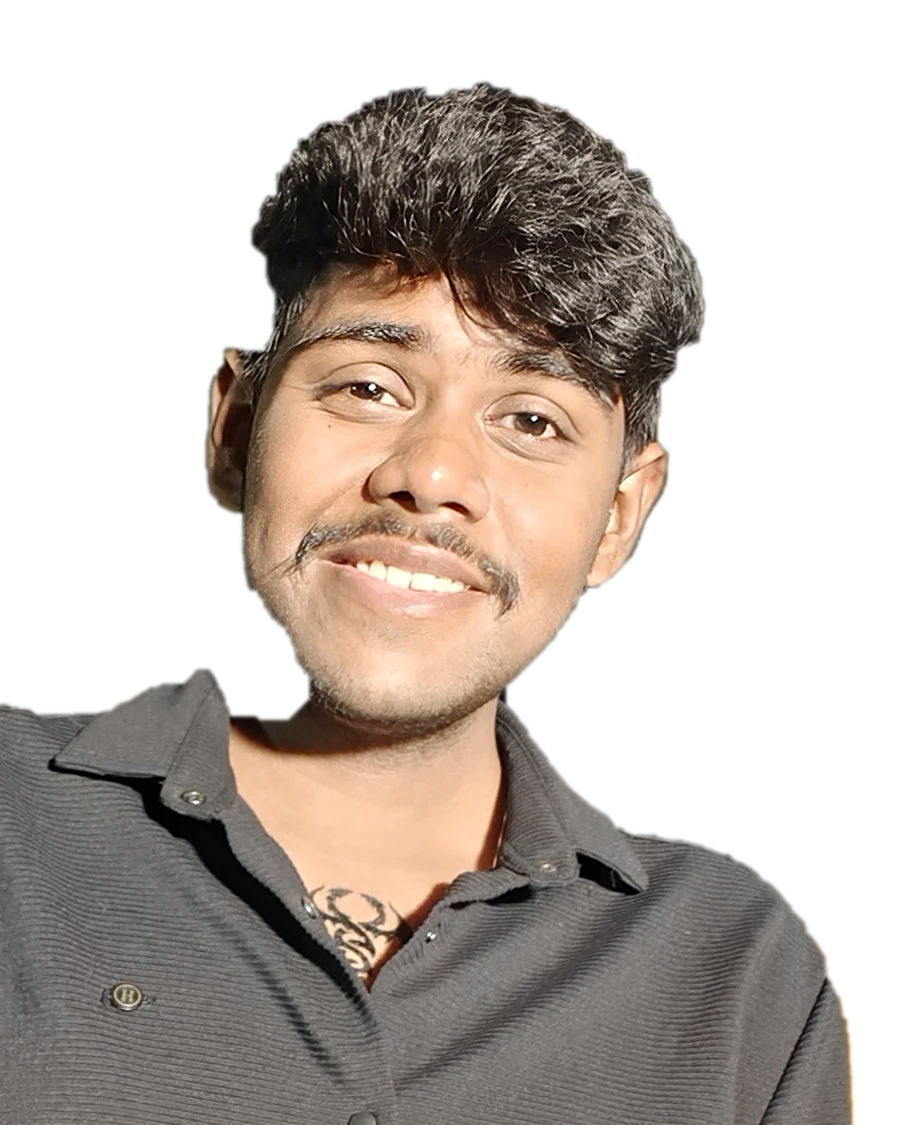
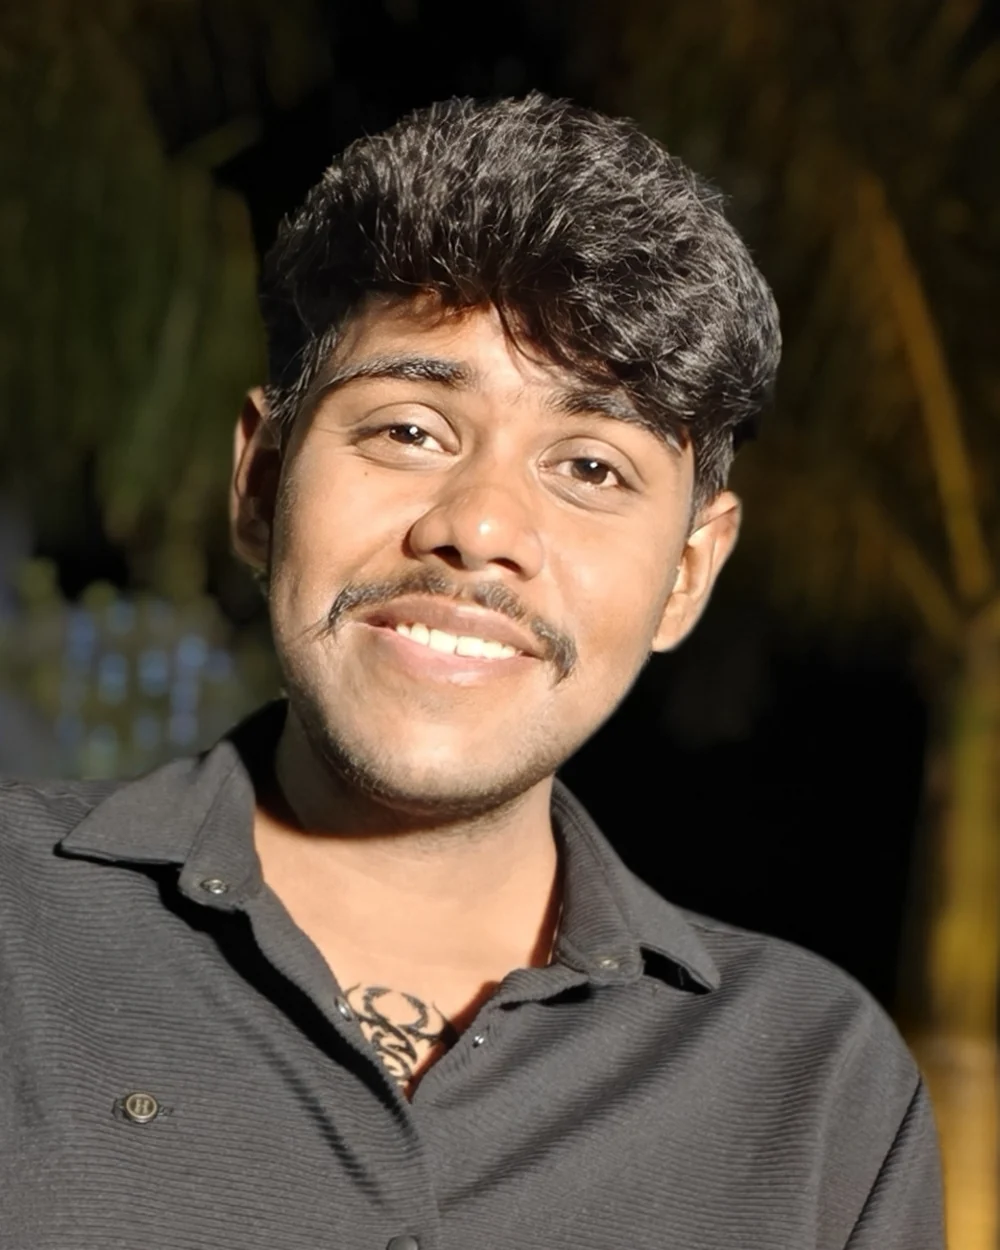
Introduction: the portrait is a plain photograph
Removes the cobalt disc, dot screen, edge fade and baseline. The photo is the natural
head-and-shoulders crop at 4:5 and stays beside the text on wide screens.

Claude-Session: https://claude.ai/code/session_01BJtJpFH6hEUmyFVEyCa3Sv

diff --git a/css/home.css b/css/home.css
@@ -57,21 +57,9 @@
   display: grid; grid-template-columns: repeat(12, minmax(0, 1fr)); gap: 3rem 2rem; align-items: start;
   margin-top: clamp(3rem, 9vh, 6.5rem);
 }
-/* The portrait is a still: a cut-out on a cobalt disc with a dot screen, standing on a baseline. The head rises past the disc.
-   It sits beside the text and stays in view while the text beside it is read. */
-.portrait { grid-column: 1 / span 5; margin: 0; position: sticky; top: calc(var(--nav-h) + 1.5rem); aspect-ratio: 4 / 5; border-bottom: 2px solid var(--ink); }
-.portrait::before {
-  content: ""; position: absolute; left: 7%; width: 86%; aspect-ratio: 1; top: 17%; border-radius: 50%;
-  background:
-    radial-gradient(circle, rgba(233, 235, 240, 0.3) 1.25px, transparent 1.7px) 0 0 / 11px 11px,
-    linear-gradient(155deg, rgba(255, 255, 255, 0.12), rgba(16, 19, 38, 0.32)),
-    var(--cobalt);
-}
-.portrait img {
-  position: absolute; inset: 0; width: 100%; height: 100%; object-fit: contain; object-position: bottom;
-  /* the photo itself is cut off at the left shoulder, so let that edge fade */
-  -webkit-mask-image: linear-gradient(to right, transparent 0, #000 7%); mask-image: linear-gradient(to right, transparent 0, #000 7%);
-}
+/* The portrait is a plain photograph, 4:5, and stays in view beside the text on wide screens. */
+.portrait { grid-column: 1 / span 5; margin: 0; position: sticky; top: calc(var(--nav-h) + 1.5rem); aspect-ratio: 4 / 5; background: var(--ink); }
+.portrait img { display: block; width: 100%; height: 100%; object-fit: cover; }
 .intro__body { grid-column: 7 / span 6; display: grid; gap: 1.15rem; }
 .intro__body p { max-width: 34rem; }
 .intro__actions { display: flex; align-items: center; gap: 1.8rem; padding-top: 0.3rem; }

diff --git a/index.html b/index.html
@@ -57,7 +57,7 @@
       </div>
       <div class="wrap intro__grid">
         <figure class="portrait" id="portrait">
-          <img src="assets/portrait.webp" width="900" height="1125" alt="Portrait of Yashsingh Chauhan, smiling, in a dark collared shirt" decoding="async" fetchpriority="low">
+          <img src="assets/portrait.webp" width="1000" height="1250" alt="Portrait of Yashsingh Chauhan, smiling, in a dark collared shirt" decoding="async">
         </figure>
         <div class="intro__body">
           <p class="intro__lead rv"><span>I build AI systems, then measure whether they work.</span></p>

diff --git a/README.md b/README.md
@@ -38,7 +38,7 @@ Plain HTML, CSS and JavaScript. No framework, no bundler, no build step.
 
 ## The portrait
 
-The introduction shows a still: a cut-out of the photo (`assets/portrait.webp`, a 4:5 WebP with a transparent background) on a cobalt disc with a dot screen, standing on a baseline. It stays in view beside the text on wide screens. To change the photo, replace the file with another 4:5 cut-out; the disc and baseline are CSS (`.portrait` in `css/home.css`).
+The introduction shows a plain photograph, `assets/portrait.webp` (4:5, head and shoulders), which stays in view beside the text on wide screens. To change it, replace the file with another 4:5 image (about 1000 x 1250).
 
 ## Run it locally
 
